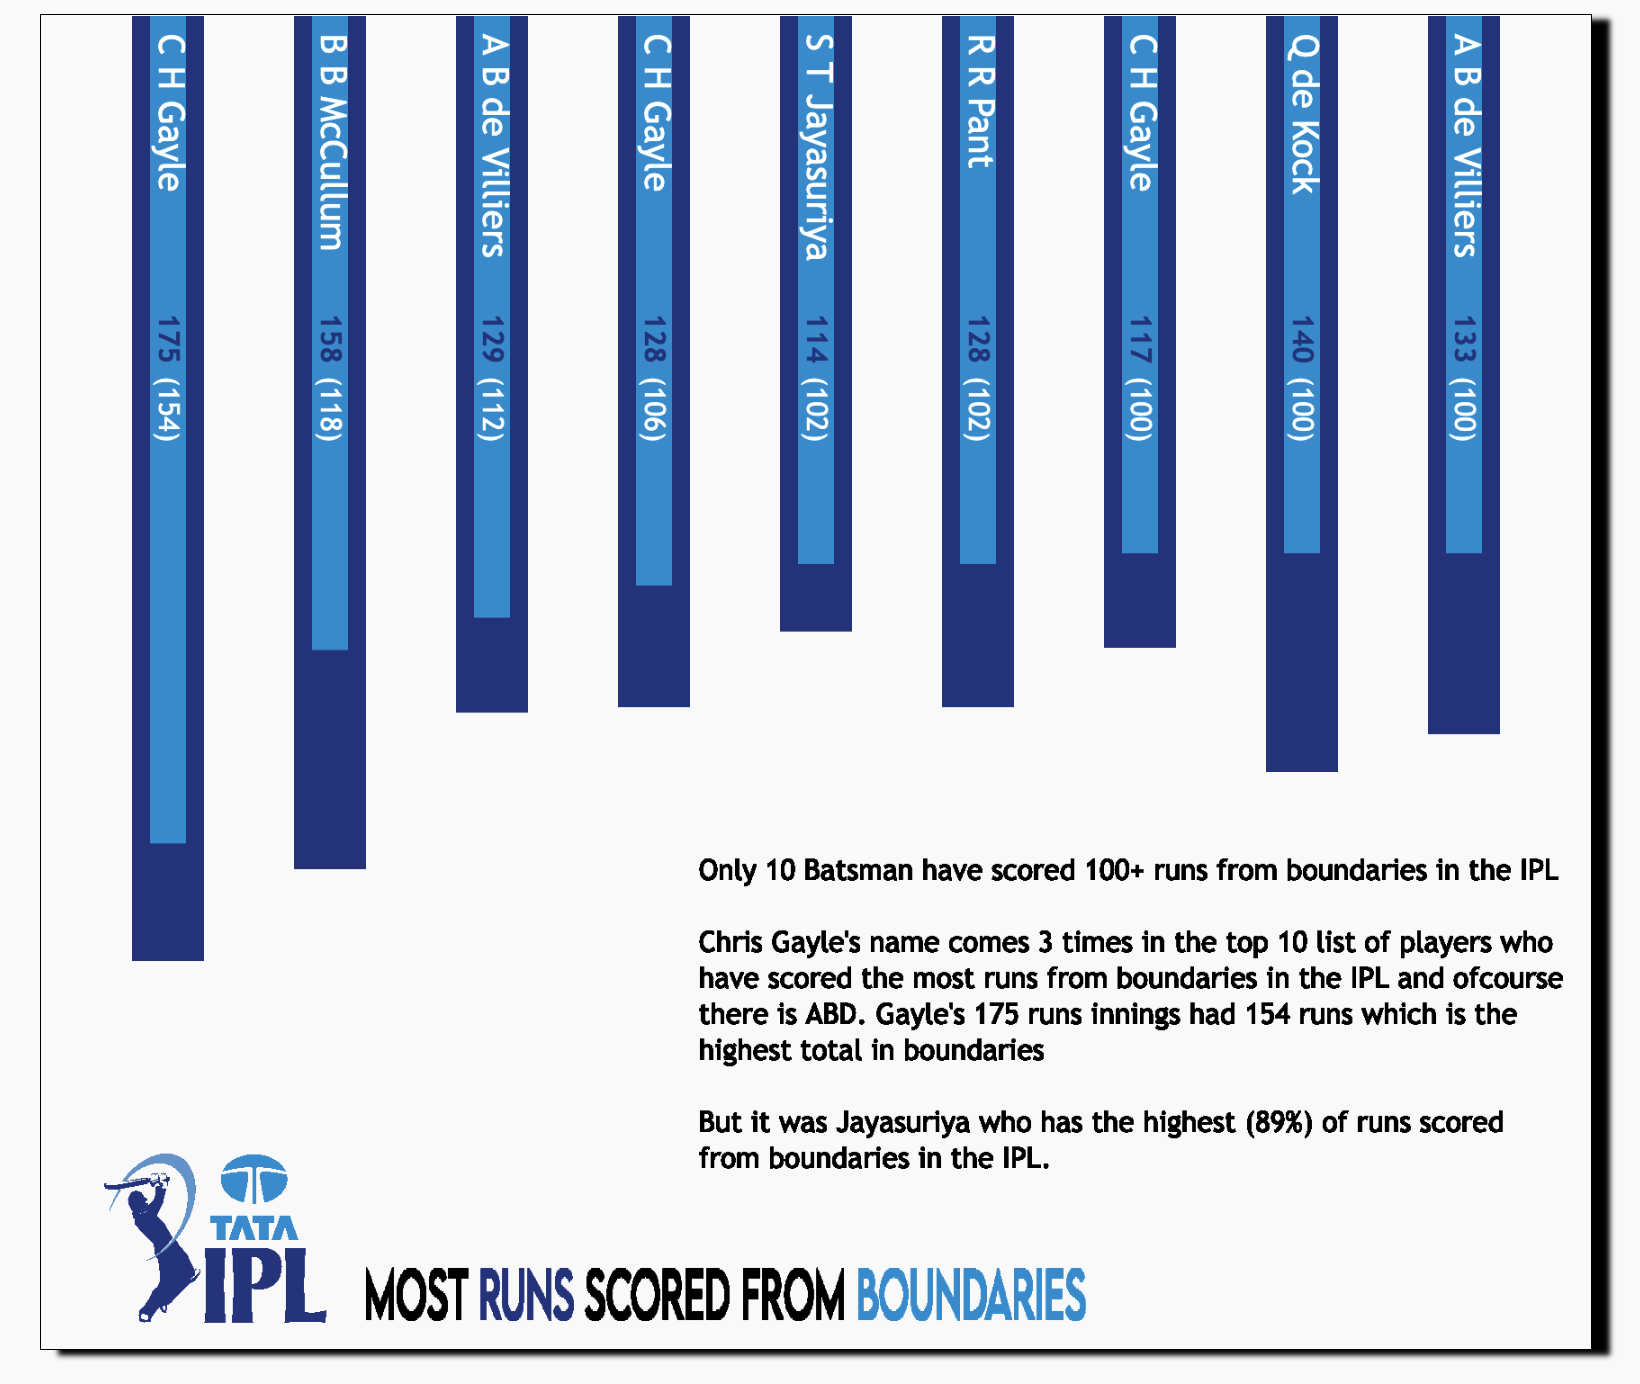
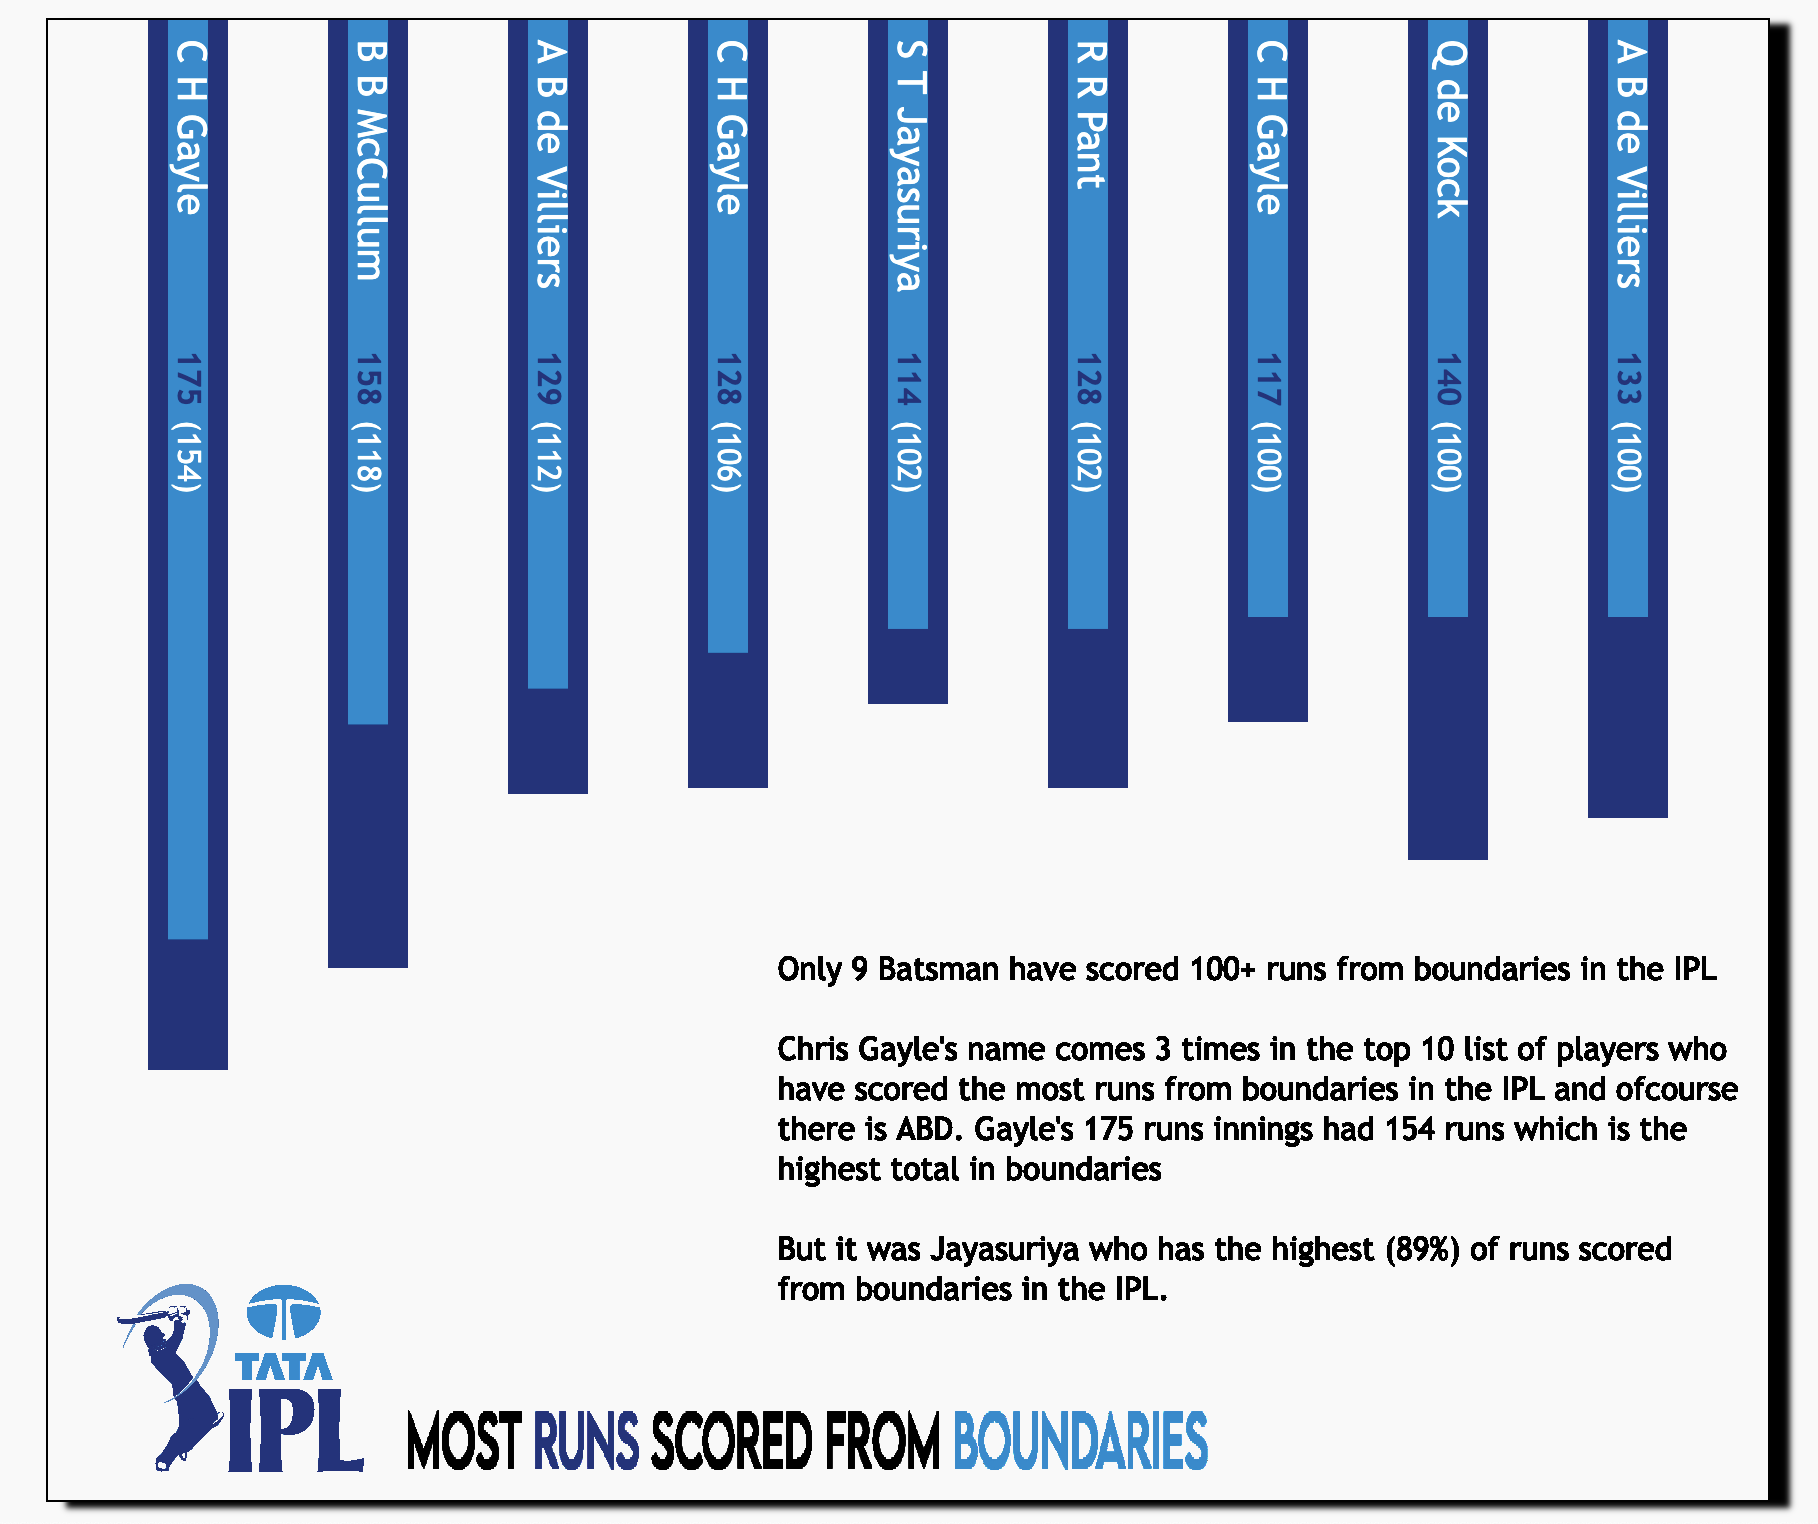
IPL Viz Added with Comments

diff --git a/IPL/sketch.js b/IPL/sketch.js
@@ -84,7 +84,7 @@ function draw() {
   function explainText(){
     fill(0);
     textSize(16);
-    text(" Only 10 Batsman have scored 100+ runs from boundaries in the IPL", 360, 480);
+    text(" Only 9 Batsman have scored 100+ runs from boundaries in the IPL", 360, 480);
     text(" Chris Gayle's name comes 3 times in the top 10 list of players who\n have scored the most runs from boundaries in the IPL and ofcourse\n there is ABD. Gayle's 175 runs innings had 154 runs which is the\n highest total in boundaries", 360, 520);
     text(" But it was Jayasuriya who has the highest (89%) of runs scored\n from boundaries in the IPL.", 360, 620);
   }
